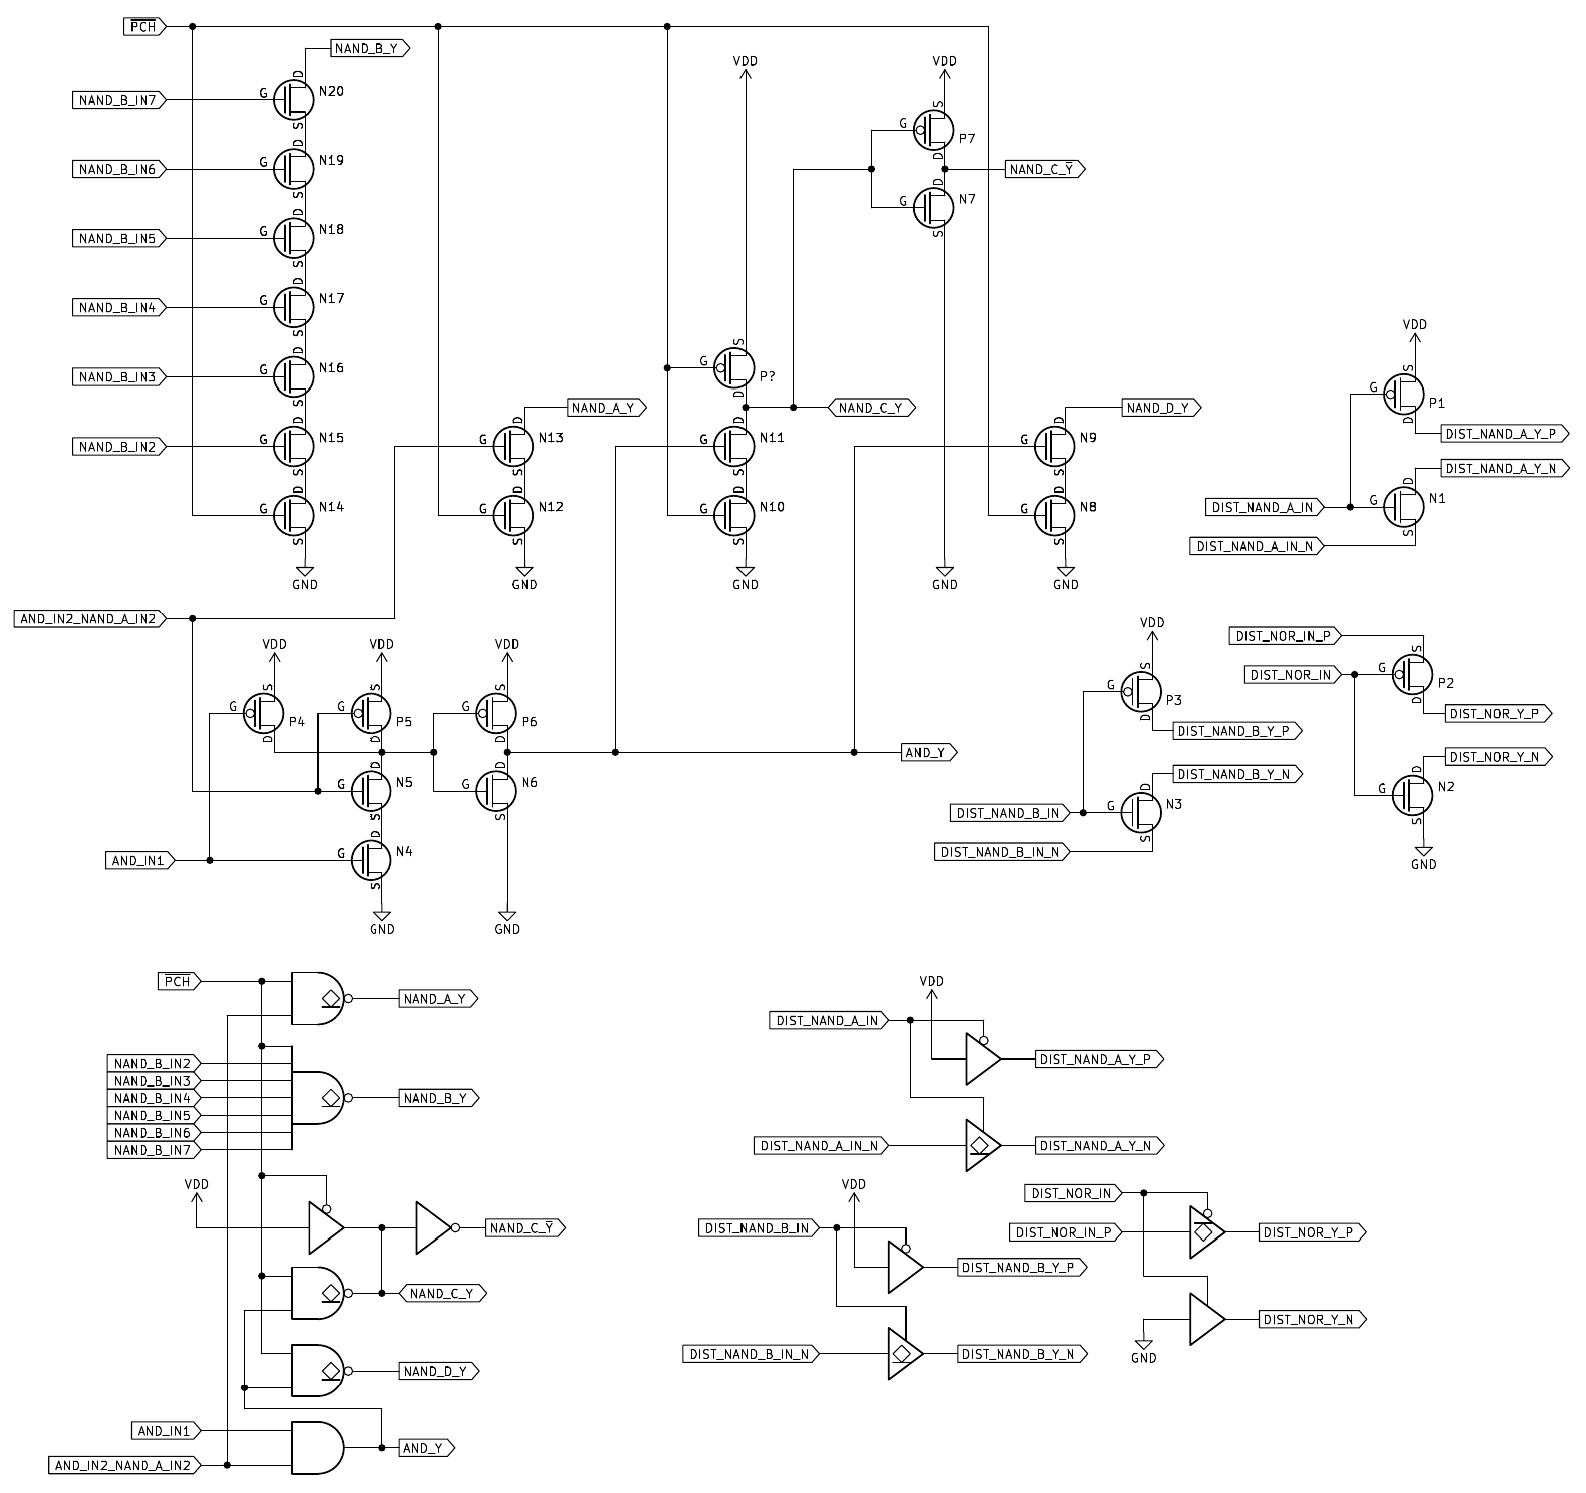
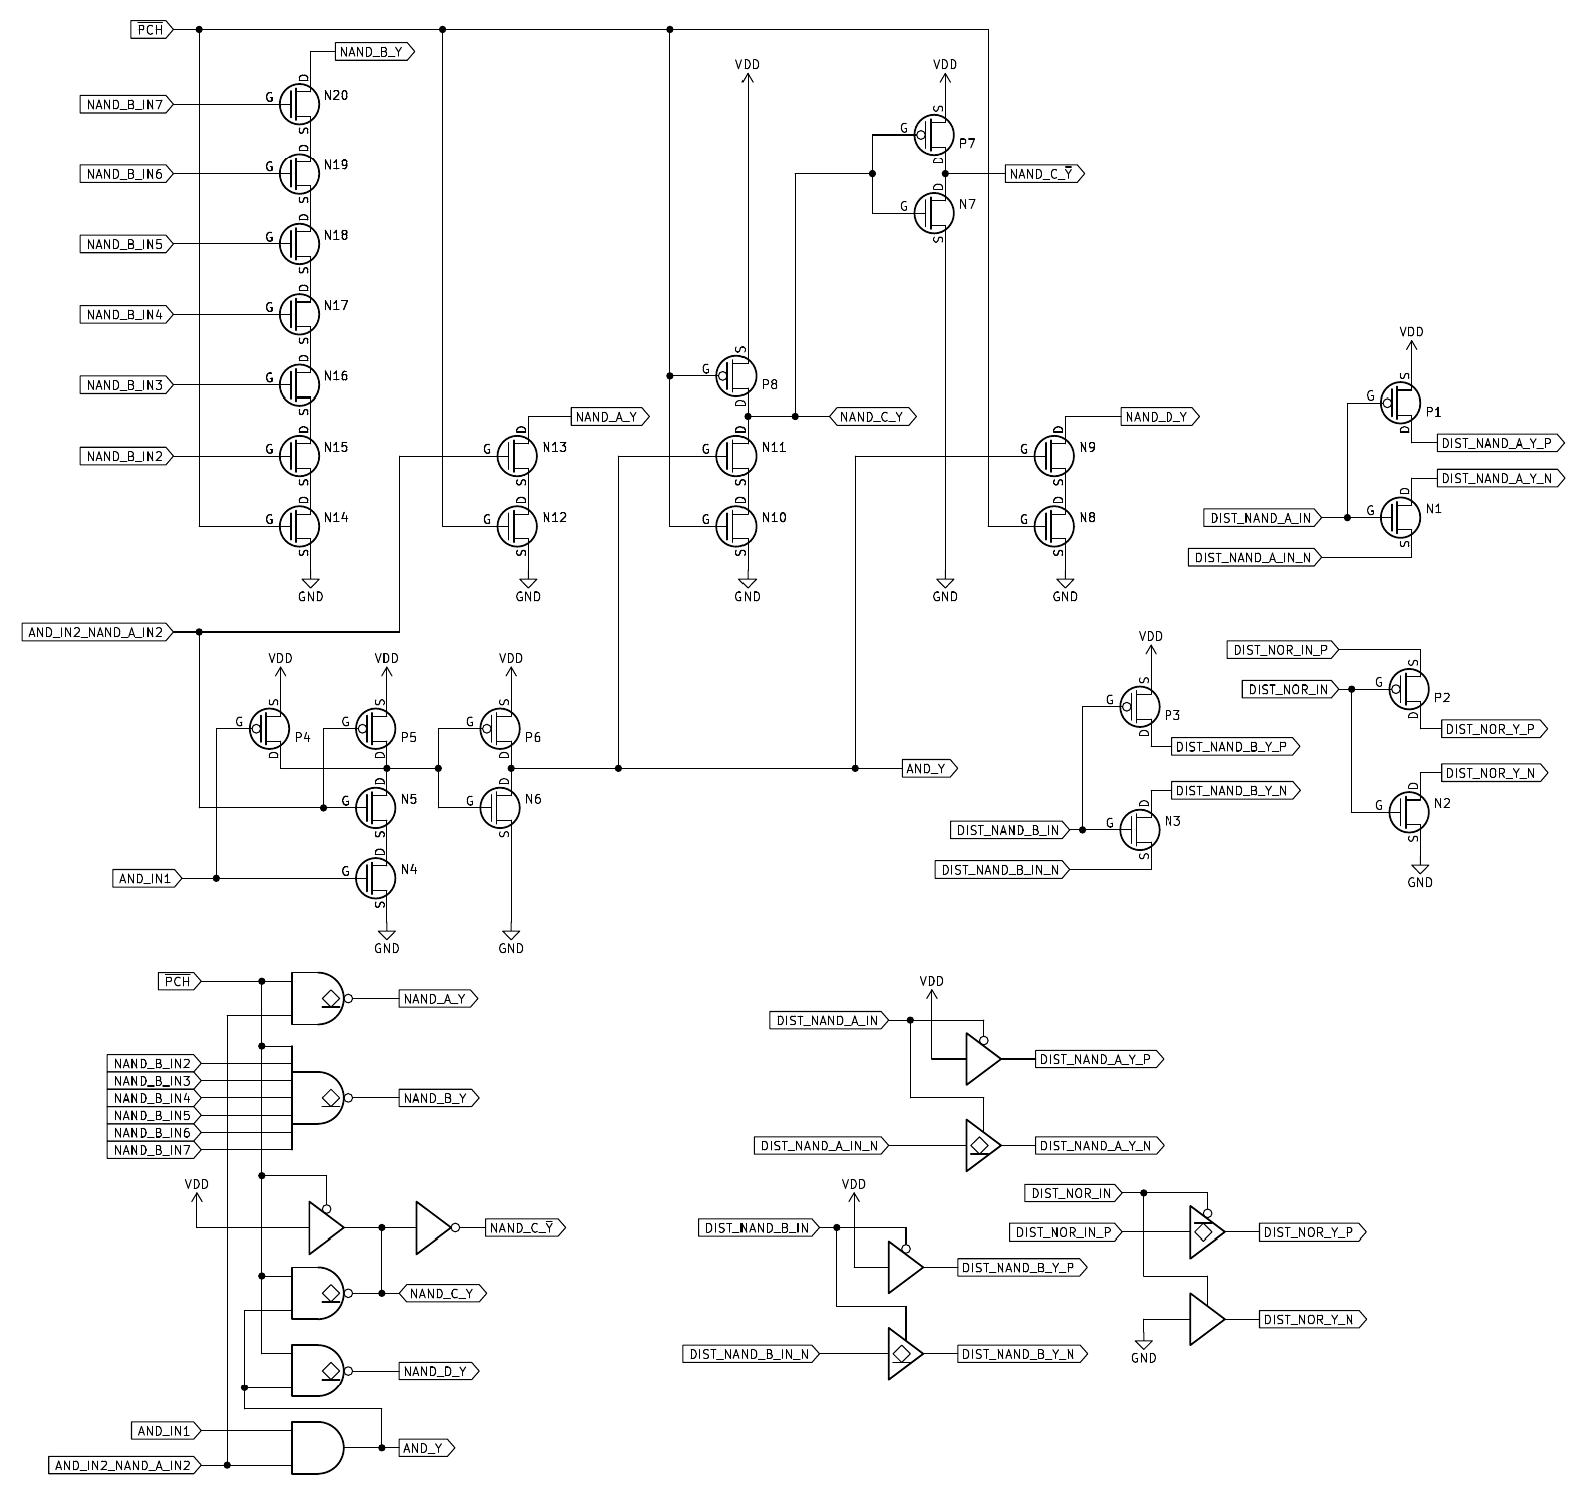
Add missing annotation in IRQ_PRIO_BIT5 schematic

diff --git a/doc/sm83_cells.html b/doc/sm83_cells.html
@@ -2582,7 +2582,7 @@ high, otherwise the PMOS and NMOS drivers on port <i>A</i> will short circuit.</
 <td><b>TODO:</b> Describe I/Os</td></tr>
 </table>
 <p><img src="img/cells/sm83/irq_prio_bit5_layout.png?v=1" alt=""></p>
-<p><img src="img/cells/sm83/irq_prio_bit5_sch.png?v=1" alt=""></p>
+<p><img src="img/cells/sm83/irq_prio_bit5_sch.png?v=2" alt=""></p>
 <p>Instances:
 <a href="/sm83_map/?view=c:irq_prio%5b5%5d">IRQ_PRIO[5]</a>
 (1 total)
